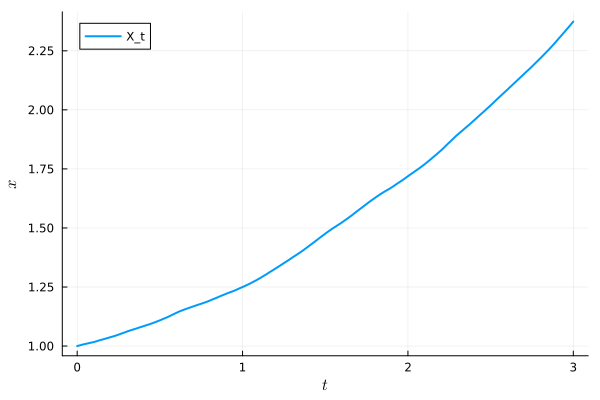
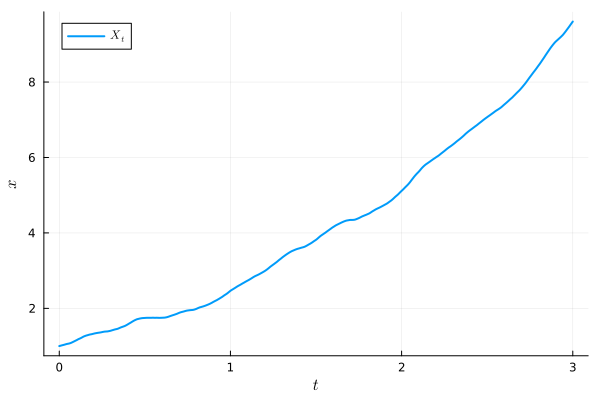
parameters

diff --git a/docs/src/examples/10-risk.md b/docs/src/examples/10-risk.md
@@ -43,23 +43,23 @@ Since we can compute exactly the accumulated claims $C_t$, we subtract it from $
 ```math
   X_t = U_t - C_t - O_t
 ```
-where $\{O_t\}_t$ is defined by
+where $\{O_t\}_t$ is given by
 ```math
-  \mathrm{d}O_t = \gamma\;\mathrm{d}t + \varepsilon\;\mathrm{d}W_t,
+  \mathrm{d}O_t = -\nu O_t\;\mathrm{d}t + \varepsilon\;\mathrm{d}W_t,
 ```
-we find
+we obtain
 ```math
-  \mathrm{d}X_t = M_t U_t\;\mathrm{d}t = M_t (X_t + C_t + O_t)\;\mathrm{d}t.
+  \mathrm{d}X_t = (\gamma + M_t U_t)\;\mathrm{d}t + \nu O_t\;\mathrm{d}t = (\gamma + M_t (X_t + C_t + O_t))\;\mathrm{d}t + \nu O_t\;\mathrm{d}t.
 ```
 
 This leads us to the linear random ordinary differential equation
 ```math
-  \frac{\mathrm{d}X_t}{\mathrm{d}t} = M_t X_t + M_t (C_t + O_t).
+  \frac{\mathrm{d}X_t}{\mathrm{d}t} = M_t X_t + M_t (C_t + O_t) + \nu O_t + \gamma.
 ```
 
 This equation has the explicit solution
 ```math
-  X_t = X_0 e^{\int_0^t M_s\;\mathrm{d}s} + \int_0^t e^{\int_s^t M_\tau\;\mathrm{d}\tau}M_s (C_s + O_s)\;\mathrm{d}s.
+  X_t = X_0 e^{\int_0^t M_s\;\mathrm{d}s} + \int_0^t e^{\int_s^t M_\tau\;\mathrm{d}\tau} (M_s (C_s + O_s) + \nu O_s + \gamma)\;\mathrm{d}s.
 ```
 
 ## Numerical simulations
@@ -89,7 +89,9 @@ function f(t, x, y)
     o = y[1]
     m = y[2]
     c = y[3]
-    dx = m * (x + c + o)
+    ν = 5.0
+    γ = 1.0
+    dx = m * (x + c + o) + ν * o + γ
     return dx
 end
 ````
@@ -111,16 +113,16 @@ The Ornstein-Uhlenbeck, geometric Brownian motion, and compound Poisson processe
 
 ````@example 10-risk
 OU0 = 0.0
-OUγ = 1.0
+OUν = 5.0
 Ouε = 0.8
 M0 = 0.2
-Mμ = 0.05
-Mσ = 0.1
-CM = 0.1
-Cλ = 4.0
+Mμ = 0.02
+Mσ = 0.4
+CM = 0.2
+Cλ = 8.0
 Claw = Uniform(0.0, CM)
 noise = ProductProcess(
-    OrnsteinUhlenbeckProcess(t0, tf, OU0, OUγ, Ouε),
+    OrnsteinUhlenbeckProcess(t0, tf, OU0, OUν, Ouε),
     GeometricBrownianMotionProcess(t0, tf, M0, Mμ, Mσ),
     CompoundPoissonProcess(t0, tf, Cλ, Claw)
 )
@@ -201,7 +203,7 @@ nothing # hide
 For the sake of illustration of the behavior of the system, we visualize a sample solution
 
 ````@example 10-risk
-plt_sols = plot(suite, ns=nothing, label="X_t", linecolor=1)
+plt_sols = plot(suite, ns=nothing, label="\$X_t\$", linecolor=1)
 ````
 
 ````@example 10-risk
@@ -223,7 +225,7 @@ nothing # hide
 We can also visualize the noises associated with this sample solution:
 
 ````@example 10-risk
-plt_noises = plot(suite, xshow=false, yshow=true, label=["\$O_t\$" "\$M_t\$" "\$C_t\$"], linecolor=[1 2])
+plt_noises = plot(suite, xshow=false, yshow=true, label=["\$O_t\$" "\$M_t\$" "\$C_t\$"], linecolor=[1 2 3])
 ````
 
 ````@example 10-risk
@@ -234,7 +236,7 @@ nothing # hide
 The actual surplus is $U_t = X_t - O_t - C_t$, so we may visualize a sample solution of the surplus by subtracting these two noises from the solution of the above RODE.
 
 ````@example 10-risk
-plt_surplus = plot(range(t0, tf, length=ntgt), suite.xt .- suite.yt[:, 1] .- suite.yt[:, 3], ns=nothing, label="surplus", linecolor=1)
+plt_surplus = plot(range(t0, tf, length=ntgt), suite.xt .- suite.yt[:, 1] .- suite.yt[:, 3], xaxis="\$t\$", yaxis="\$u\$", label="\$U_t\$", linecolor=1)
 ````
 
 ---
